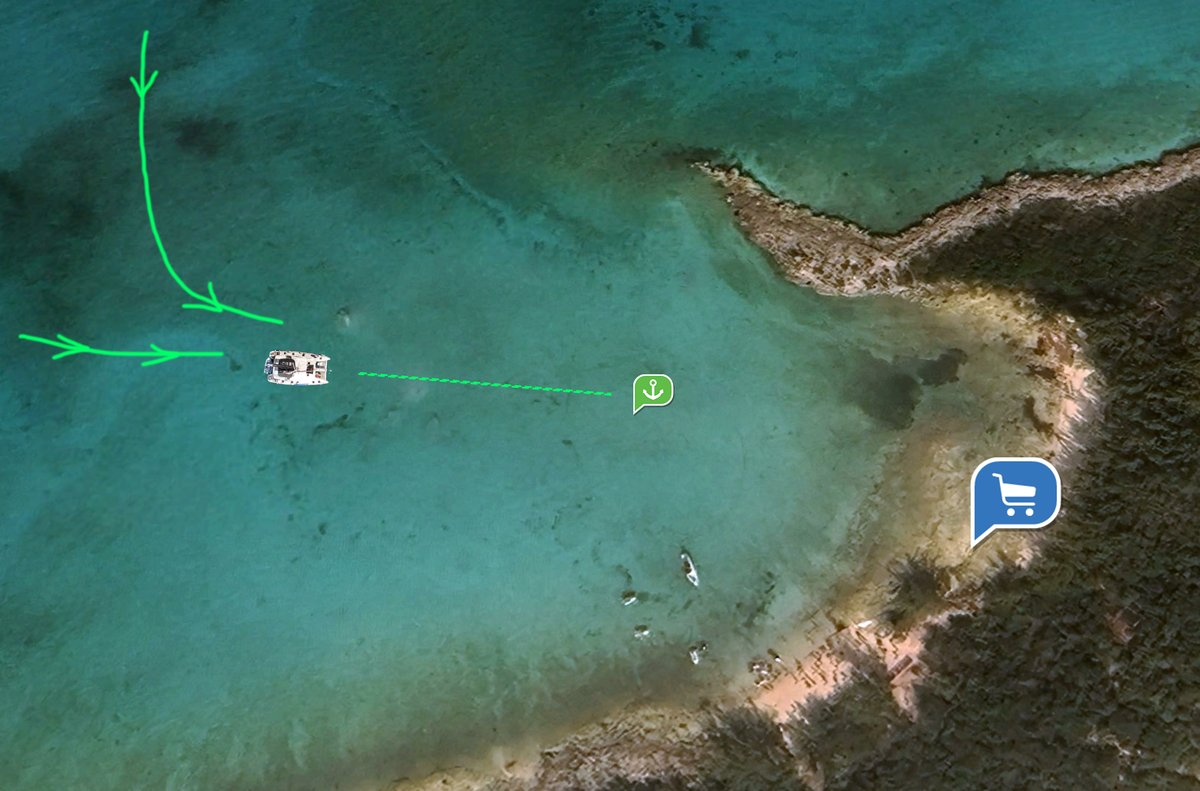
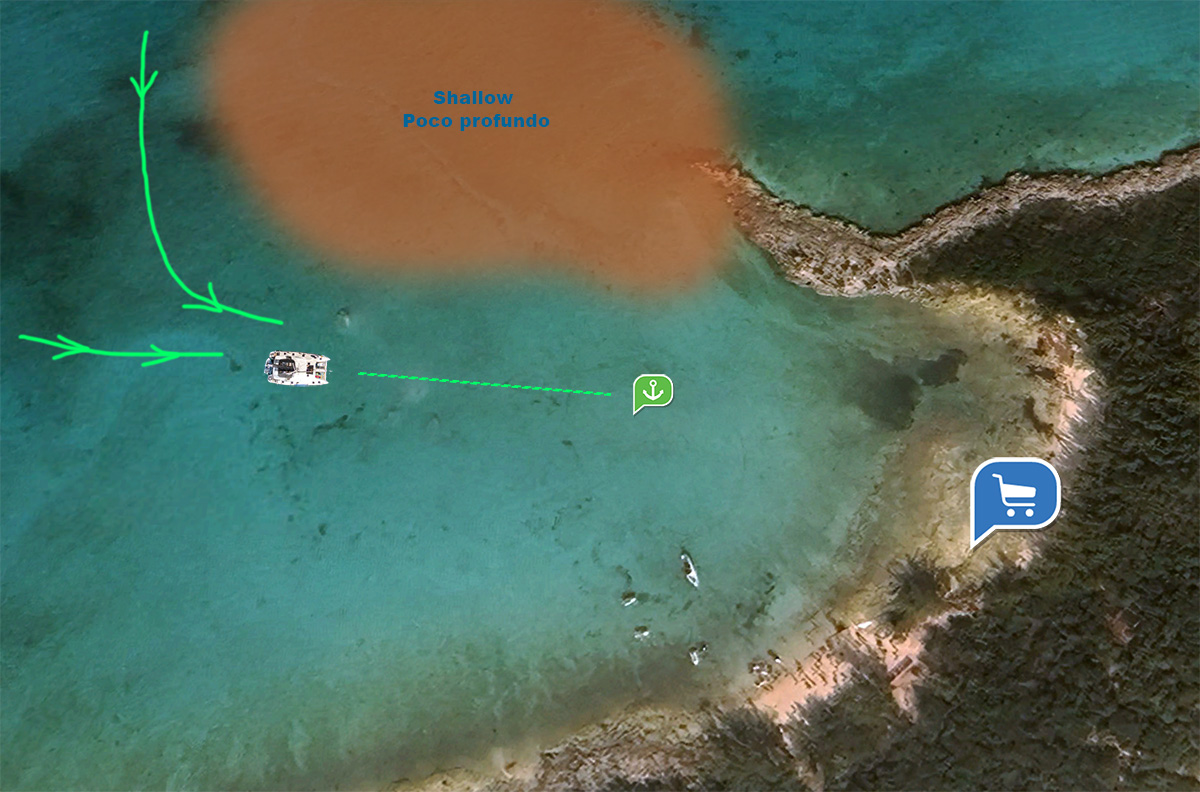
incorporated Mayker feedback on routes

diff --git a/internal/operations/routes-eng.html b/internal/operations/routes-eng.html
@@ -113,6 +113,9 @@
 <p>The wind usually blows around the island from the east. The boat is anchored bow into the wind (facing east/southeast).</p>
 <p>The boat swings depending on the wind direction. Make sure the boat does not hit the dock (or other boats).</p>
 
+<img src="../img/routes/S1 - Lower Harbour - Anchoring 3.jpg" alt="Lower Harbour Anchoring 3">
+<p>In different wind conditions, these alternative anchoring positions may be used.</p>
+
 <hr>
 
 <h2 id="stop-2-rose-island-reef">Stop 2: Rose Island Reef</h2>

diff --git a/internal/operations/routes-spa.html b/internal/operations/routes-spa.html
@@ -113,6 +113,9 @@
 <p>El viento normalmente sopla alrededor de la isla desde el este. El barco fondea con la proa apuntando al viento (orientación este/sureste).</p>
 <p>El barco oscila según la dirección del viento. Asegurarse de que el barco no golpee el muelle (ni otros barcos).</p>
 
+<img src="../img/routes/S1 - Lower Harbour - Anchoring 3.jpg" alt="Fondeo en Lower Harbour 3">
+<p>En diferentes condiciones de viento, se pueden usar estas posiciones alternativas de fondeo.</p>
+
 <hr>
 
 <h2 id="stop-2-rose-island-reef">Parada 2: Arrecife de Rose Island</h2>